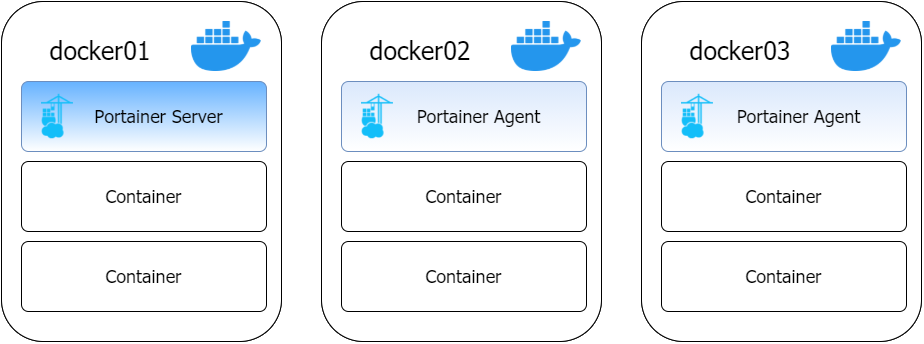
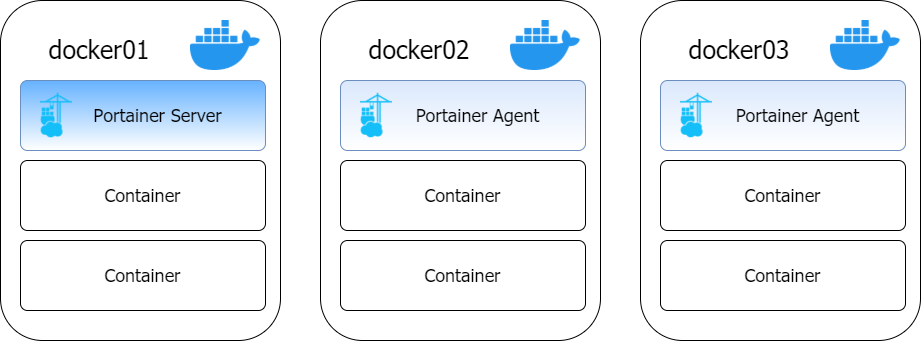
GitBook: [#1158] Image padding updates

diff --git a/start/architecture.md b/start/architecture.md
@@ -6,7 +6,7 @@ Portainer consists of two elements: the Portainer Server and the Portainer Agent
 
 A single Portainer Server will accept connections from any number of Portainer Agents, providing the ability to manage multiple clusters from one centralized interface. To do this, the Portainer Server container requires data persistence. The Portainer Agents are stateless, with data being shipped back to the Portainer Server container.
 
-![The Portainer Architecture](../.gitbook/assets/archdiagrams.png)
+![The Portainer Architecture](../.gitbook/assets/ArchDiagrams.png)
 
 {% hint style="info" %}
 We don't currently support running multiple instances of the Portainer Server container to manage the same clusters. We recommend running the Portainer Server on a specific management node, with Portainer Agents deployed across the remaining nodes.
@@ -20,9 +20,10 @@ With the new Edge Agent, we altered the architecture. Rather than the Portainer 
 
 ## Security and compliance
 
-Portainer runs exclusively on your servers, within your network, behind your own firewalls. As a result, we do not currently hold any SOC or PCI/DSS compliance because we do not host any of your infrastructure. You can even run Portainer completely disconnected \(air-gapped\) without any impact on functionality.
+Portainer runs exclusively on your servers, within your network, behind your own firewalls. As a result, we do not currently hold any SOC or PCI/DSS compliance because we do not host any of your infrastructure. You can even run Portainer completely disconnected (air-gapped) without any impact on functionality.
 
-While we do \(optionally\) collect anonymous usage analytics from Portainer installations, we remain compliant with GDPR. Data collection can be disabled when you install the product, or at any time after that. If your installation is air-gapped, collection will silently fail without any adverse effects.
+While we do (optionally) collect anonymous usage analytics from Portainer installations, we remain compliant with GDPR. Data collection can be disabled when you install the product, or at any time after that. If your installation is air-gapped, collection will silently fail without any adverse effects.
 
-{% page-ref page="requirements-and-prerequisites.md" %}
-
+{% content-ref url="requirements-and-prerequisites.md" %}
+[requirements-and-prerequisites.md](requirements-and-prerequisites.md)
+{% endcontent-ref %}

diff --git a/start/install/server/setup.md b/start/install/server/setup.md
@@ -12,13 +12,13 @@ These instructions are for Portainer Business Edition. For Community Edition, pl
 
 ## Create the initial administrator user
 
-The first thing to do is create your first user, which will be an administrator. This password needs to be at least eight characters long. You can also change the username of the user if you prefer \(it defaults to `admin`\).
+The first thing to do is create your first user, which will be an administrator. This password needs to be at least eight characters long. You can also change the username of the user if you prefer (it defaults to `admin`).
 
 ![](../../../.gitbook/assets/be-server-setup-1.png)
 
 ## Collection of statistics
 
-We anonymously collect information about how Portainer is used via a tool called [Matomo](https://matomo.org/). You can disable this option, but we recommend leaving it activated. This will help us understand how our users use Portainer and improve it.
+We anonymously collect information about how Portainer is used via a tool called [Matomo](https://matomo.org). You can disable this option, but we recommend leaving it activated. This will help us understand how our users use Portainer and improve it.
 
 You can find more about what we do with your information in our [privacy policy](https://www.portainer.io/privacy-policy).
 
@@ -42,7 +42,7 @@ If you installed Portainer in Kubernetes you would choose Kubernetes, but if you
 
 ![Connect to the local environment, which might be Kubernetes...](../../../.gitbook/assets/initial-3.png)
 
-![... or Docker](../../../.gitbook/assets/initial-4%20%281%29.png)
+![... or Docker](../../../.gitbook/assets/initial-4.png)
 
 Once you've selected the appropriate option, click **Connect**. If all goes well, you'll be logged into the Portainer interface.
 
@@ -54,5 +54,6 @@ Congratulations, you've completed the Portainer setup! From here, your installat
 
 If you need to add additional endpoints to your Portainer installation, you can find instructions for doing so under the Existing Installation guide.
 
-{% page-ref page="../agent/" %}
-
+{% content-ref url="../agent/" %}
+[agent](../agent/)
+{% endcontent-ref %}

diff --git a/faq/concepts/what-is-a-node-for-licensing-purposes.md b/faq/concepts/what-is-a-node-for-licensing-purposes.md
@@ -30,7 +30,7 @@ If a node is running both the Portainer Server and the Portainer Agent, this is 
 
 Kubernetes by nature works differently to Docker, so licensing does too. Let's consider a Kubernetes cluster with one master node and two worker nodes:
 
-
+![](../../.gitbook/assets/licensing-kubernetes.png)
 
 With Kubernetes, the Portainer Agent has the ability to access the Kubernetes API in order to manage the entire cluster. This access is used to determine the number of nodes in the cluster (three in this case) which then gives you the required number of licenses (three).
 
